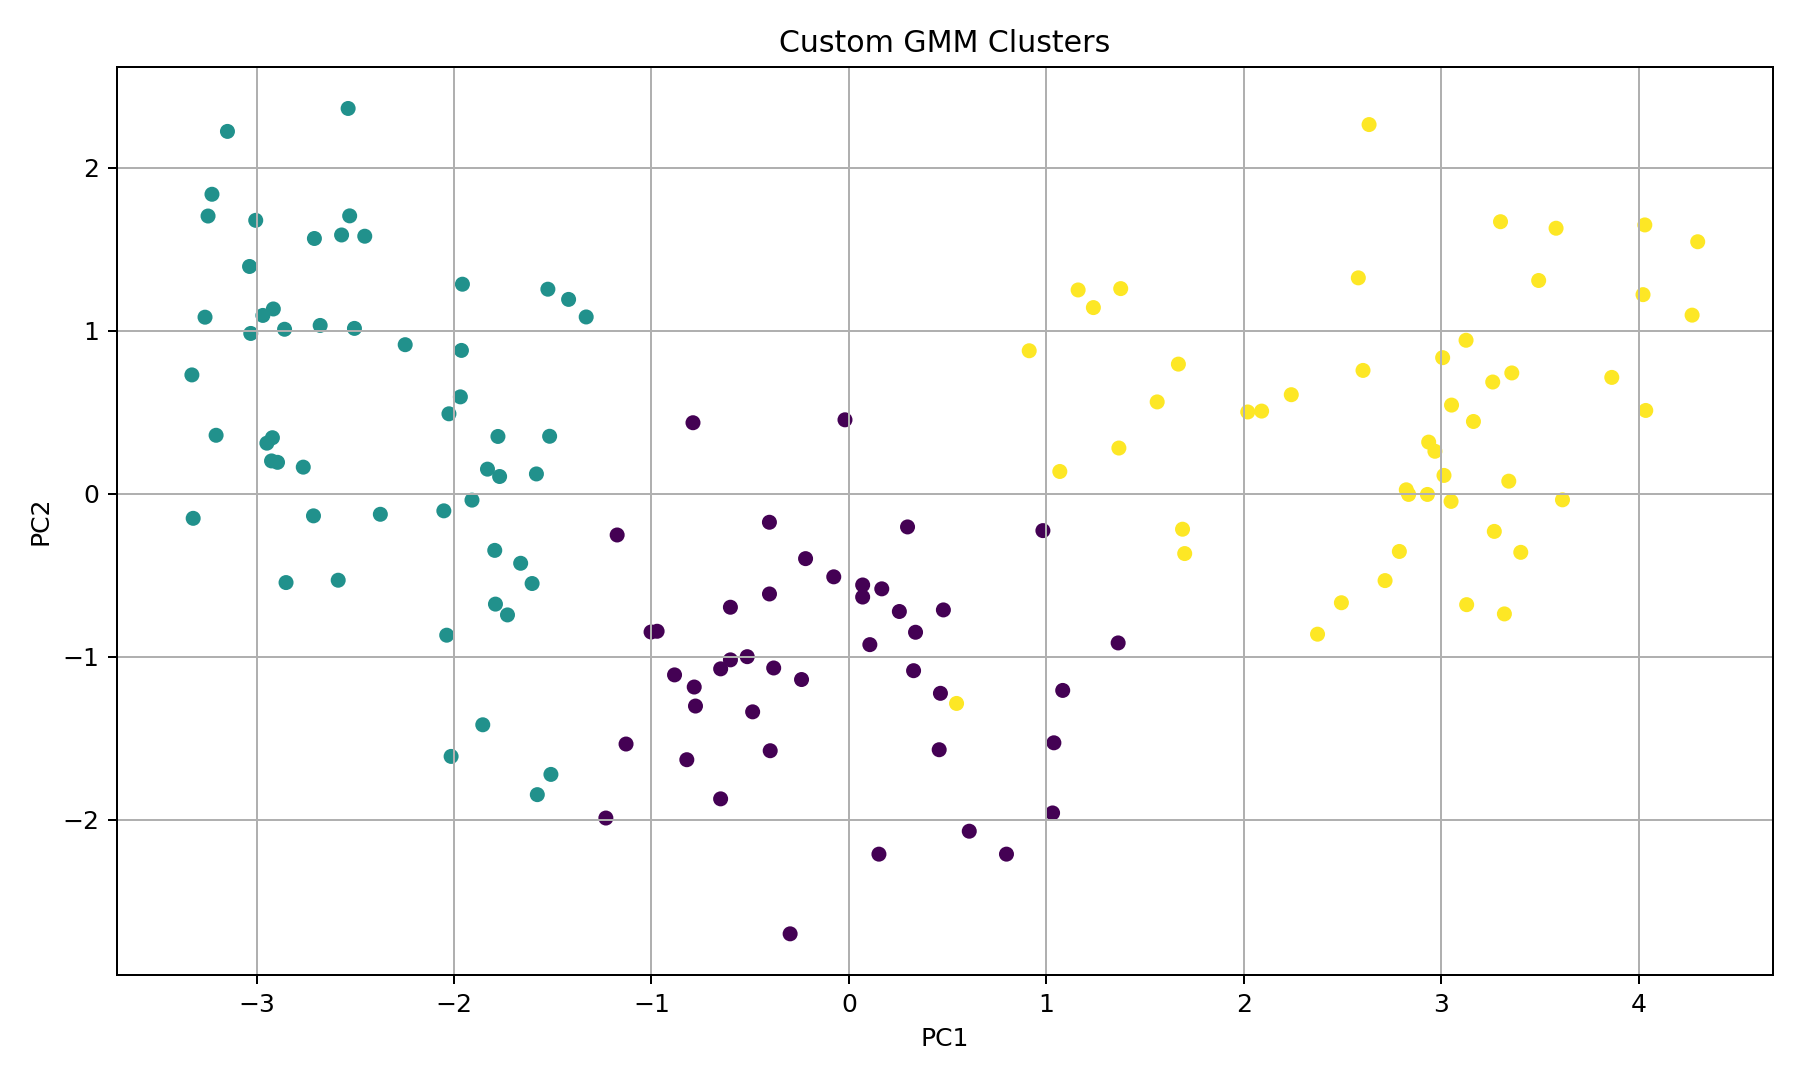
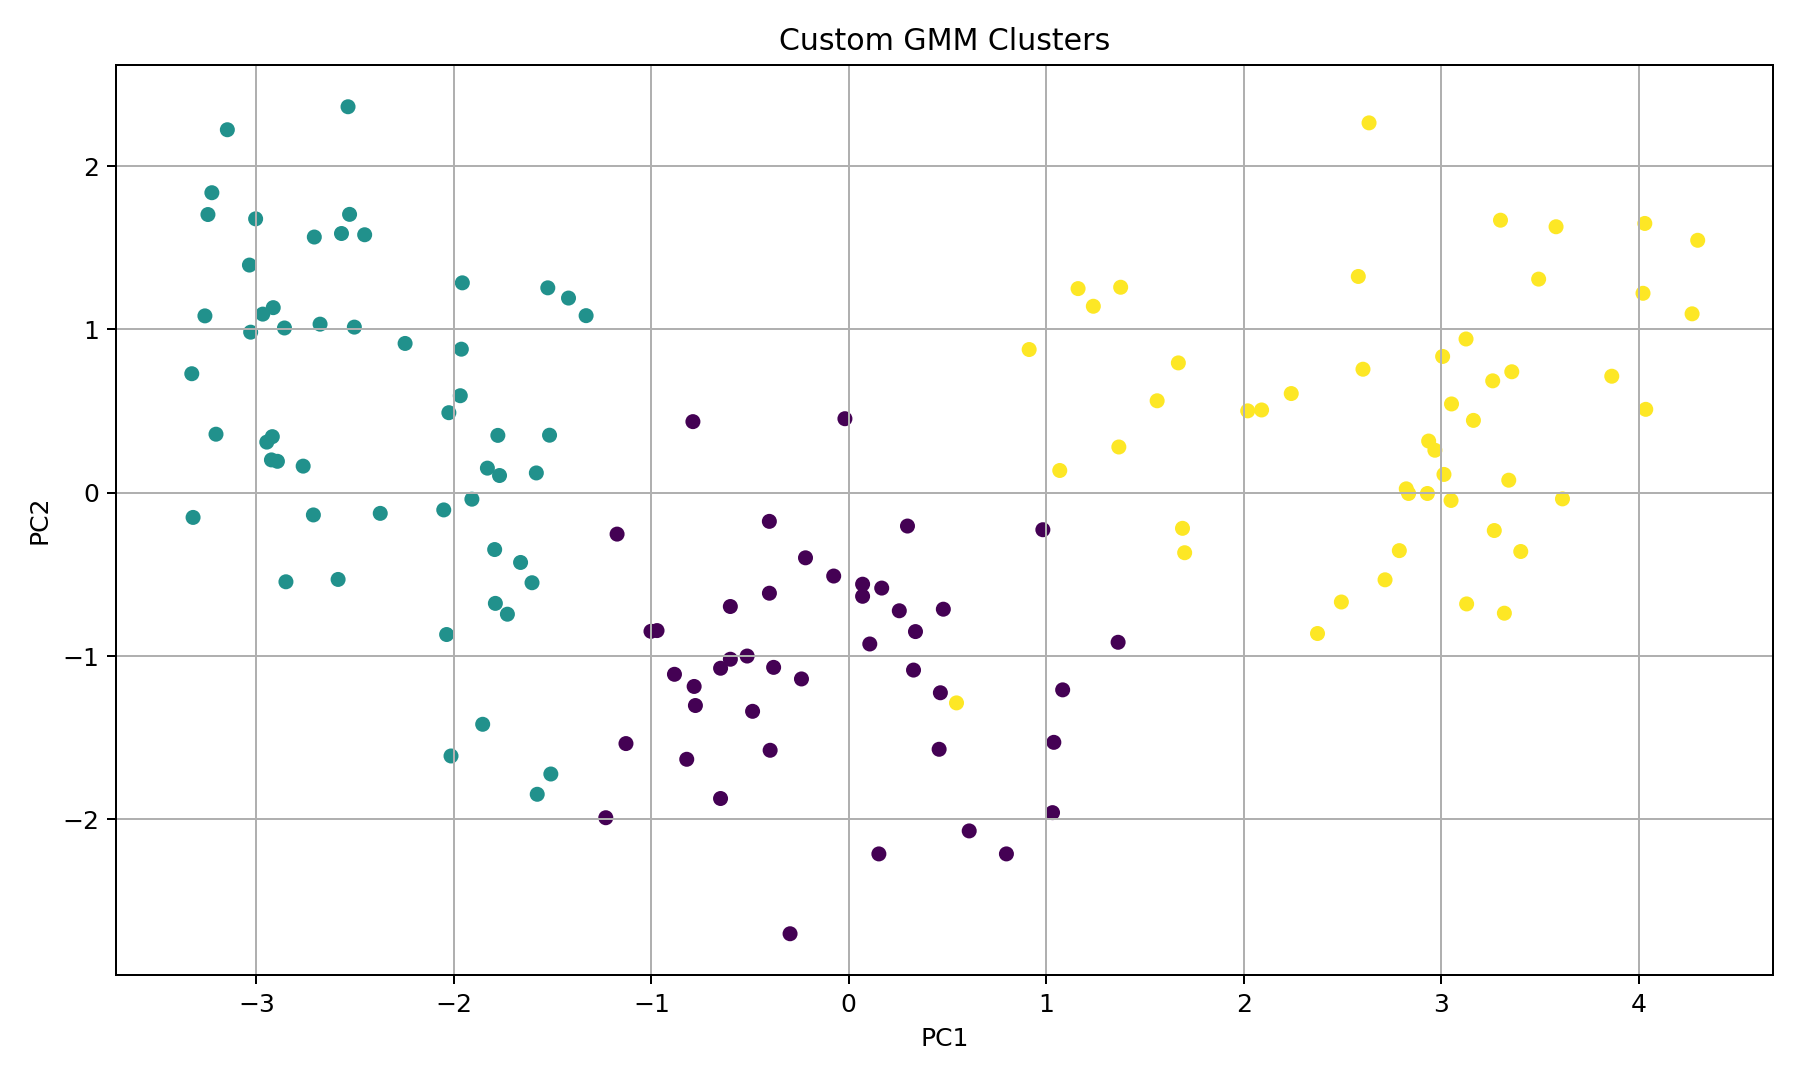
adjust_lab4

diff --git a/students/shinyakov-ad/lab4/source/main.py b/students/shinyakov-ad/lab4/source/main.py
@@ -2,16 +2,6 @@ from pathlib import Path
 import os
 import time
 import warnings
-
-LAB_DIR = Path(__file__).resolve().parents[1]
-MPLCONFIGDIR = LAB_DIR / ".matplotlib-cache"
-MPLCONFIGDIR.mkdir(parents=True, exist_ok=True)
-os.environ.setdefault("MPLCONFIGDIR", str(MPLCONFIGDIR))
-os.environ.setdefault("MPLBACKEND", "Agg")
-os.environ.setdefault("LOKY_MAX_CPU_COUNT", "1")
-warnings.filterwarnings("ignore", category=RuntimeWarning)
-warnings.filterwarnings("ignore", category=UserWarning)
-
 import matplotlib.pyplot as plt
 import pandas as pd
 from data_load import load_dataset
@@ -48,7 +38,7 @@ def save_clusters_plot(X, labels, output_path, title):
 
 
 def main():
-    artifacts_dir = LAB_DIR / "artifacts"
+    artifacts_dir = Path("artifacts")
     artifacts_dir.mkdir(parents=True, exist_ok=True)
 
     dataset = load_dataset(random_state=RANDOM_STATE)

diff --git a/students/shinyakov-ad/lab4/source/model/init_param.py b/students/shinyakov-ad/lab4/source/model/init_param.py
@@ -3,7 +3,7 @@ from sklearn.cluster import KMeans
 
 
 def random_init(X, n_components, random_state=42):
-    n_samples, n_features = X.shape
+    _, n_features = X.shape
 
     kmeans = KMeans(
         n_clusters=n_components,